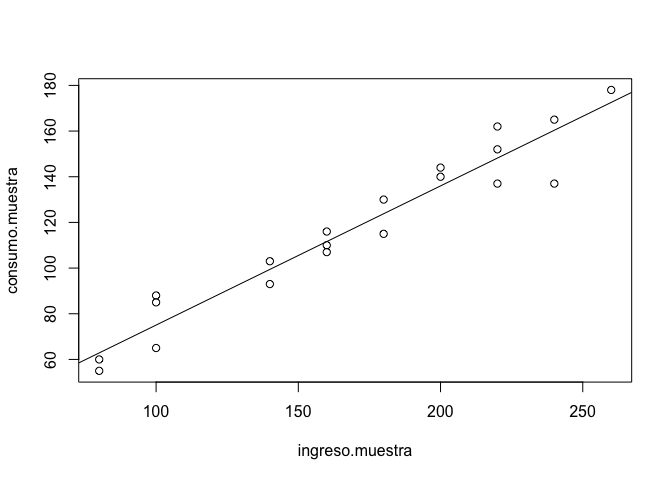
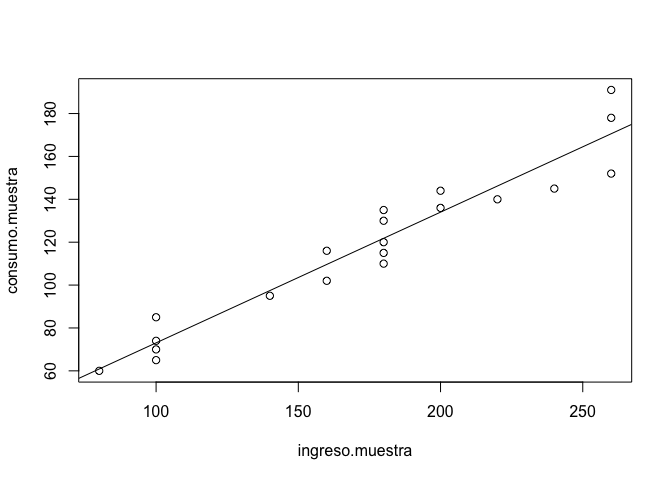
eqs

diff --git a/[P2 - 2]/[P2-2]_Regresión_Lineal.md b/[P2 - 2]/[P2-2]_Regresión_Lineal.md
@@ -116,12 +116,12 @@ obtener una muestra de la población:
     ## 
     ## Coefficients:
     ##     (Intercept)  ingreso.muestra  
-    ##         14.0934           0.6095
+    ##         12.1069           0.6094
 
     coef(ajuste.1)
 
     ##     (Intercept) ingreso.muestra 
-    ##      14.0934084       0.6095065
+    ##       12.106914        0.609443
 
     abline(coef(ajuste.1))
 
@@ -135,55 +135,37 @@ La función poblacional sería:
 
 Como no es observable, se usa la muestral
 
-$$
-Y\_i=\\hat{\\beta}\_1+\\hat{\\beta}\_2X\_i+\\hat{u}\_i
-$$
+*Y*<sub>*i*</sub> = *h**a**t**β*<sub>1</sub> + *h**a**t**β*<sub>2</sub>*X*<sub>*i*</sub> + *h**a**t**u*<sub>*i*</sub>
 
-$$
-Y\_i=\\hat{Y}\_i+\\hat{u}\_i
-$$
+*Y*<sub>*i*</sub> = *h**a**t**Y*<sub>*i*</sub> + *h**a**t**u*<sub>*i*</sub>
 
-$$
-\\hat{u}\_i = Y\_i-\\hat{Y}\_i
-$$
+*h**a**t**u*<sub>*i*</sub> = *Y*<sub>*i*</sub> − *h**a**t**Y*<sub>*i*</sub>
 
-$$
-\\hat{u}\_i = Y\_i- \\hat{\\beta}\_1-\\hat{\\beta}\_2X\_i
-$$
+*h**a**t**u*<sub>*i*</sub> = *Y*<sub>*i*</sub> − *h**a**t**β*<sub>1</sub> − *h**a**t**β*<sub>2</sub>*X*<sub>*i*</sub>
 
 Es por esto que los residuos se obtienen a través de los betas:
 
 1.  
-    $$
-    \\sum\\hat{u}\_i^2 =\\sum (Y\_i- \\hat{\\beta}\_1-\\hat{\\beta}\_2X\_i)^2
-    $$
+    ∑*h**a**t**u*<sub>*i*</sub><sup>2</sup> = ∑(*Y*<sub>*i*</sub> − *h**a**t**β*<sub>1</sub> − *h**a**t**β*<sub>2</sub>*X*<sub>*i*</sub>)<sup>2</sup>
 
-$$
-\\sum\\hat{u}\_i^2 =f(\\hat{\\beta}\_1,\\hat{\\beta}\_2)
-$$
+∑*h**a**t**u*<sub>*i*</sub><sup>2</sup> = *f*(*h**a**t**β*<sub>1</sub>, *h**a**t**β*<sub>2</sub>)
 
 Diferenciando ((<span class="citeproc-not-found"
 data-reference-id="eq1">**???**</span>)) se obtiene:
 
-$$
- \\hat{\\beta}\_2 = \\frac{S\_{xy}}{S\_{xx}}
-$$
+*h**a**t**β*<sub>2</sub> = *f**r**a**c**S*<sub>*x**y*</sub>*S*<sub>*x**x*</sub>
 
-$$
- \\hat\\beta\_1 = \\bar{Y} -  \\hat\\beta\_2\\bar{X}
-$$
+*h**a**t**b**e**t**a*<sub>1</sub> = *b**a**r**Y* − *h**a**t**b**e**t**a*<sub>2</sub>*b**a**r**X*
  donde
-$$
-S\_{xx} = \\sum\_{i=1}^{n}x\_i^2-n\\bar{x}^2
-$$
+*S*<sub>*x**x*</sub> = *s**u**m*<sub>*i* = 1</sub><sup>*n*</sup>*x*<sub>*i*</sub><sup>2</sup> − *n**b**a**r**x*<sup>2</sup>
 
-$$
-S\_{xy} = \\sum\_{i=1}^{n}x\_i y\_i-n\\bar{x}\\bar{y}
-$$
+*S*<sub>*x**y*</sub> = *s**u**m*<sub>*i* = 1</sub><sup>*n*</sup>*x*<sub>*i*</sub>*y*<sub>*i*</sub> − *n**b**a**r**x**b**a**r**y*
 
 Abrimos la `tabla3.2`, vamos a obtener:
 
-    consumo=read.csv(file="Tabla3_2.csv",sep=";",dec=".",header=TRUE)
+    uu <- "https://raw.githubusercontent.com/vmoprojs/DataLectures/master/Tabla3_2.csv"
+    # consumo=read.csv(file="Tabla3_2.csv",sep=";",dec=".",header=TRUE)
+    consumo <- read.csv(url(uu),sep=";",dec=".",header=TRUE)
     attach(consumo)
 
     ## The following objects are masked from familia:
